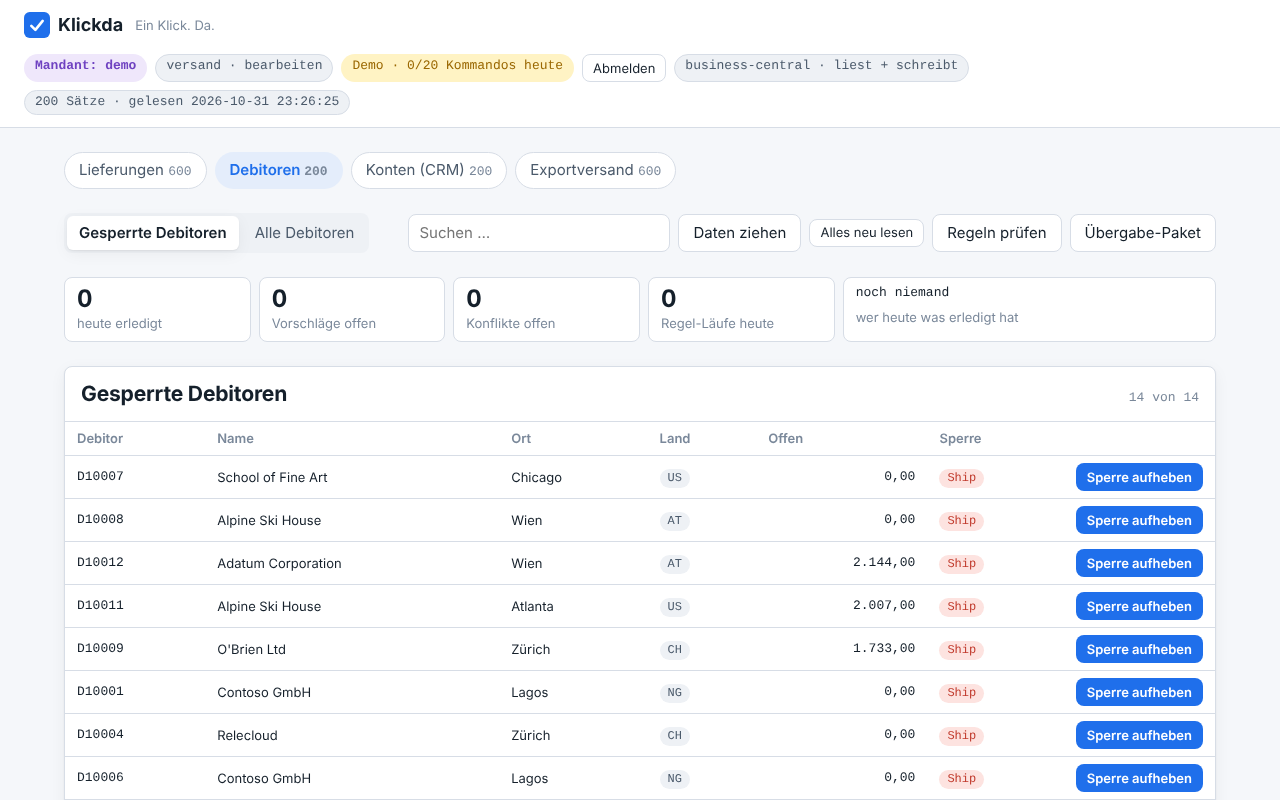
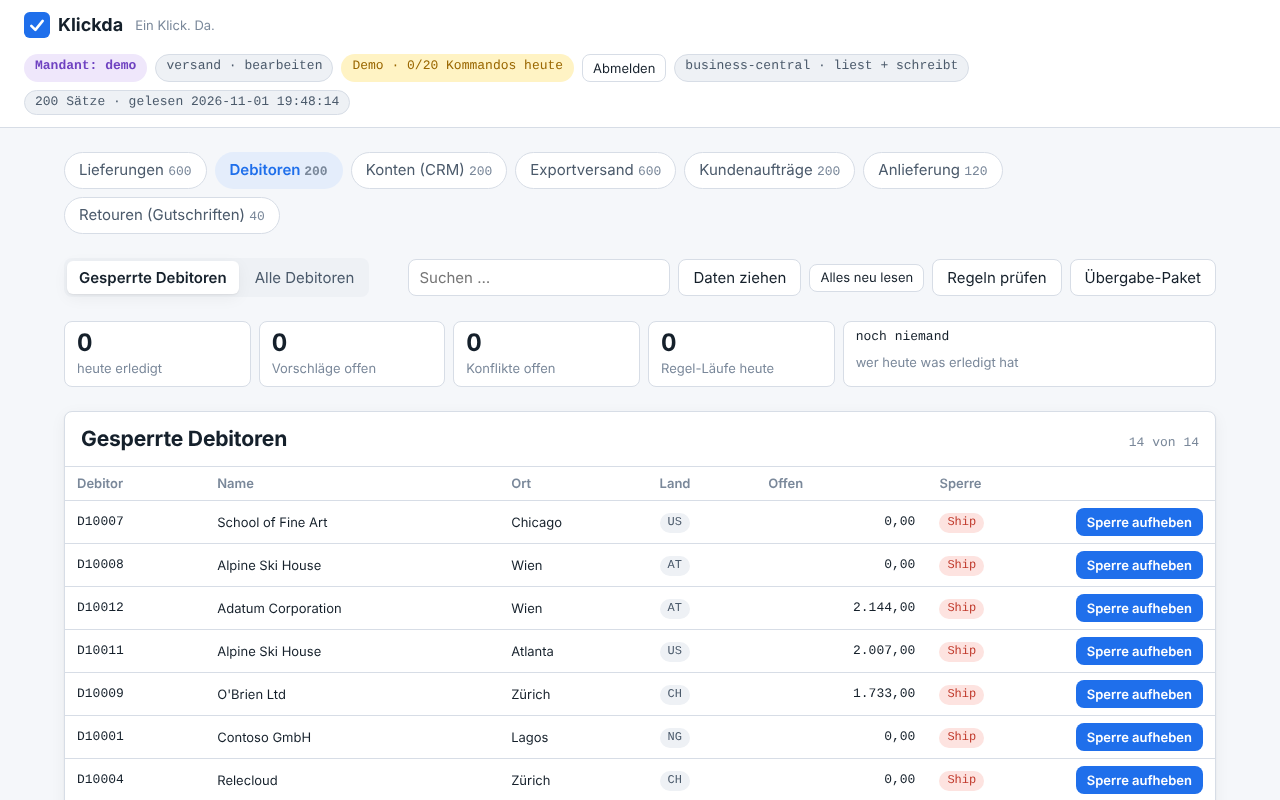
feat: Stand 0.9.0 — Belegdurchlauf als viertes Szenario
Claude-Session: https://claude.ai/code/session_01NpRY9PPxXjFZPjqLCCsD2j

diff --git a/szenarien.html b/szenarien.html
@@ -149,6 +149,43 @@
     </form>
   </section>
 
+  <section class="abschnitt abschnitt-hell" id="belegdurchlauf">
+    <h2 data-reveal>4 · Der Auftrag auf dem Weg durchs Haus</h2>
+    <p class="abschnitt-intro" data-reveal>Microsoft Dynamics 365 Business Central · Kundenaufträge, Anlieferung, Retouren</p>
+    <p data-reveal>Ein Kunde bestellt, ein Lieferant liefert an, ein anderer schickt zurück. Jeder Beleg wandert durch Vertrieb, Disposition, Freigabe, Lager, Versand und Buchhaltung — und in jeder Abteilung heißt das: Beleg suchen, öffnen, Status prüfen, Feld setzen, freigeben, buchen. Fünf Abteilungen, fünf Listen, und keine sagt, was heute dran ist.</p>
+    <dl class="stand zahlen" data-reveal>
+      <div><dt><span data-szenario="belegdurchlauf" data-zahl="freizugeben">24</span></dt><dd>Aufträge mit Termin, seit Tagen offen — nicht freigegeben</dd></div>
+      <div><dt><span data-szenario="belegdurchlauf" data-zahl="ohneTermin">17</span></dt><dd>Aufträge ohne Liefertermin (Disposition)</dd></div>
+      <div><dt><span data-szenario="belegdurchlauf" data-zahl="versandHeute">31</span></dt><dd>freigegeben und heute zu liefern (Versand)</dd></div>
+      <div><dt><span data-szenario="belegdurchlauf" data-zahl="wareneingang">17</span></dt><dd>Bestellungen bis heute erwartet (Wareneingang)</dd></div>
+      <div><dt><span data-szenario="belegdurchlauf" data-zahl="ueberfaellig">5</span></dt><dd>davon überfällig — der Lieferant hat verschoben</dd></div>
+      <div><dt><span data-szenario="belegdurchlauf" data-zahl="retourenEntwurf">6</span></dt><dd>Gutschriften zur Retoure im Entwurf (Buchhaltung)</dd></div>
+    </dl>
+    <figure class="bild" data-reveal>
+      <img src="szenario-belegdurchlauf.png" width="1280" height="800" alt="Klickda, Bereich Kundenaufträge, Sicht „Versand: heute fällig": 31 freigegebene Aufträge mit Spalten Auftrag, Kunde, Bestellt, Liefertermin, Betrag, Status, Geliefert; je Zeile der dunkle Knopf „Liefern + Rechnung" und „Zurück an Vertrieb"; oben die Bereiche Kundenaufträge, Anlieferung, Retouren." loading="lazy">
+      <figcaption>Die Versand-Sicht aus der Demo — „Liefern + Rechnung" ist dunkel: eine Buchung, die Oberfläche fragt einmal, danach gibt es kein Rückgängig.</figcaption>
+    </figure>
+    <div class="karten">
+      <article class="karte" data-reveal><h3>Heute</h3><p>Je Abteilung die eigene Liste: Belegkarte öffnen, Reiter, Feld, Status, Freigabe — und bei einer Terminverschiebung drei Masken: wieder öffnen, Datum, freigeben. Buchungen am Ende des Tages, wenn jemand dazu kommt. Was liegen bleibt, merkt der Kunde.</p></article>
+      <article class="karte" data-reveal data-delay="1"><h3>Mit Klickda</h3><p>Jede Abteilung bekommt ihre Sicht. Disposition: „Termin + Freigabe …" in einem Klick. Versand: „Liefern + Rechnung" als Buchung — die Oberfläche fragt einmal, dann ist es gebucht, kein Rückgängig, der Beleg verschwindet aus der Liste wie in BC. Wareneingang: „Termin verschieben …" erledigt drei Masken als einen Ablauf. Buchhaltung bucht die Gutschrift. Die Regel schlägt die alten offenen Aufträge zur Freigabe vor.</p></article>
+    </div>
+    <form class="formular rechner" data-rechner="belegdurchlauf" data-vorgaenge="95" data-minuten="2" data-klicks="72" data-reveal>
+      <h3>Was der Status quo kostet — mit Ihren Zahlen</h3>
+      <div class="rechner-felder">
+        <label>Vorgänge je Tag, alle Abteilungen<input name="vorgaenge" type="number" min="0" value="95"></label>
+        <label>Minuten je Vorgang in der Belegkarte<input name="minuten" type="number" min="0" step="0.5" value="2"></label>
+        <label>Stundensatz in €<input name="stundensatz" type="number" min="0" value="65"></label>
+      </div>
+      <dl class="stand rechner-aus">
+        <div><dt data-aus="statusQuoMin">190 min</dt><dd>je Tag in Belegkarten heute, übers Haus</dd></div>
+        <div><dt data-aus="klickdaMin">18 min</dt><dd>je Tag mit Klickda (ein Klick je Beleg, eine Freigabe für alle alten)</dd></div>
+        <div><dt data-aus="stundenJahr">717 h</dt><dd>gewonnen im Jahr</dd></div>
+        <div><dt data-aus="euroJahr">46.583 €</dt><dd>im Jahr — über fünf Abteilungen</dd></div>
+      </dl>
+      <p class="hinweis-klein">Annahmen, nicht Messungen: zwei Minuten je Belegkarte, 250 Arbeitstage. Der Rechner rechnet lokal, sendet nichts.</p>
+    </form>
+  </section>
+
   <section class="abschnitt abschnitt-hell" id="naechster-schritt">
     <h2 data-reveal>Ihre Lage ist eine vierte</h2>
     <p data-reveal>Jede dieser Lagen ist ein Workflow-Paket: eine Datei mit Bereich, Sichten, Kommandos, Regeln und Abläufen. Ihre Lage wird die nächste — im Pilot, mit einem Bereich, einer Sicht und einem Feld, in sechs Wochen. Was dabei entsteht, gehört Ihnen: das Übergabe-Paket enthält den Prozess, die Spezifikation mit Code und das Protokoll.</p>

diff --git a/index.html b/index.html
@@ -76,6 +76,7 @@
     <div class="karten">
       <article class="karte lift" data-reveal><h3>Montagmorgen im Versand</h3><p>38 Lieferungen heute fällig, 11 ohne Spediteur, 7 mit erledigter Haus-Sperre, der LKW kommt um 14:00. Achtzehn VL02N-Runden — oder zwölf Klicks.</p><p><a href="szenarien.html#montag-versand">Zur Lage →</a></p></article>
       <article class="karte lift" data-reveal data-delay="1"><h3>Monatsende in Business Central</h3><p>14 Debitoren gesperrt, 9 davon längst bezahlt. Die Regel findet sie, „Alle freigeben" erledigt sie — mit Namen im Protokoll.</p><p><a href="szenarien.html#monatsende-debitoren">Zur Lage →</a></p></article>
+      <article class="karte lift" data-reveal data-delay="2"><h3>Der Auftrag durchs Haus</h3><p>Vertrieb, Disposition, Versand, Wareneingang, Buchhaltung: 95 Belegvorgänge am Tag in Business Central. Freigeben, Termin, Liefern + Rechnung, Wareneingang buchen — je ein Klick, Buchungen mit einer Nachfrage.</p><p><a href="szenarien.html#belegdurchlauf">Zur Lage →</a></p></article>
       <article class="karte lift" data-reveal data-delay="2"><h3>Kreditsperren im CRM</h3><p>12 Konten gesperrt, 8 Limits genehmigt, zwei Masken je Konto. Mit Klickda ein Ablauf: Sperre weg, Limit neu, rückgängig als Ganzes.</p><p><a href="szenarien.html#kreditsperre-crm">Zur Lage →</a></p></article>
     </div>
   </section>
@@ -167,6 +168,7 @@
     <h2 data-reveal>Stand der Entwicklung</h2>
     <p class="abschnitt-intro" data-reveal>Klickda wird offen gebaut: jede Version mit Tests gegen nachgebaute Gateways und einer Abnahme im echten Browser. Was hier steht, läuft.</p>
     <dl class="stand" data-reveal>
+      <div><dt>0.9.0 · November 2026</dt><dd>Der Beleg durchs Haus: Kundenaufträge, Anlieferung und Retouren in Business Central mit Freigabe, Liefertermin, Lieferung, Wareneingang und Gutschrift. Zwei Arten von Klick — Feld ändern und Belegaktion — und Buchungen als das, was sie sind: eine Nachfrage, dann gebucht, kein Rückgängig. Viertes Szenario mit fünf Abteilungen. 123 Tests.</dd></div>
       <div><dt>0.8.0 · Oktober 2026</dt><dd>Drei Szenarien als echte Demos: Montagmorgen im Exportversand, Monatsende in Business Central, Kreditsperren im CRM — Zahlen aus dem Code, Bilder aus der Abnahme, ein Rechner für den Status quo. Betriebsprobe: das Kundenpaket als eigener Prozess mit 31 Stationen, die Konnektoren an ihren Kanten (Zeitlimit, Abbruch, 412, OAuth-Token widerrufen), Sicherung, Update, Wiederherstellung. 112 Tests.</dd></div>
       <div><dt>0.7.0 · Oktober 2026</dt><dd>Betriebsreife: Schema-Version im Spiegel mit Sicherung vor jedem Update, Sicherung per Befehl und gegengeprüft, Gesundheitsendpunkt ohne Anmeldung, Schutz gegen fremde Herkunft und Anmelde-Brute-Force, Anmeldungen im Protokoll, Kundenpaket mit Prüfsummen und Startskripten, Leistungsbudgets als Test, Betriebshandbuch und Sicherheitsdossier für die IT, CI bei jedem Stand. 107 Tests.</dd></div>
       <div><dt>0.6.0 · Oktober 2026</dt><dd>Anmeldung mit dem Microsoft-Konto des Hauses (Entra ID, OpenID Connect mit PKCE, Token selbst geprüft) — Rollen aus Entra oder aus der eigenen Benutzerliste, nie aus dem Token geraten. Erstes Pilot-Paket „Exportversand" für SAP: Heute fällig, ohne Spediteur, Gefahrgut; Freigeben, Sperren, Spediteur, Plan-Warenausgang, und „Versand vorbereiten" als ein Klick für zwei Felder. Dazu der Pilotplan: zwei Wochen lesen, dann ein Feld, dann der Alltag. 100 Tests.</dd></div>
